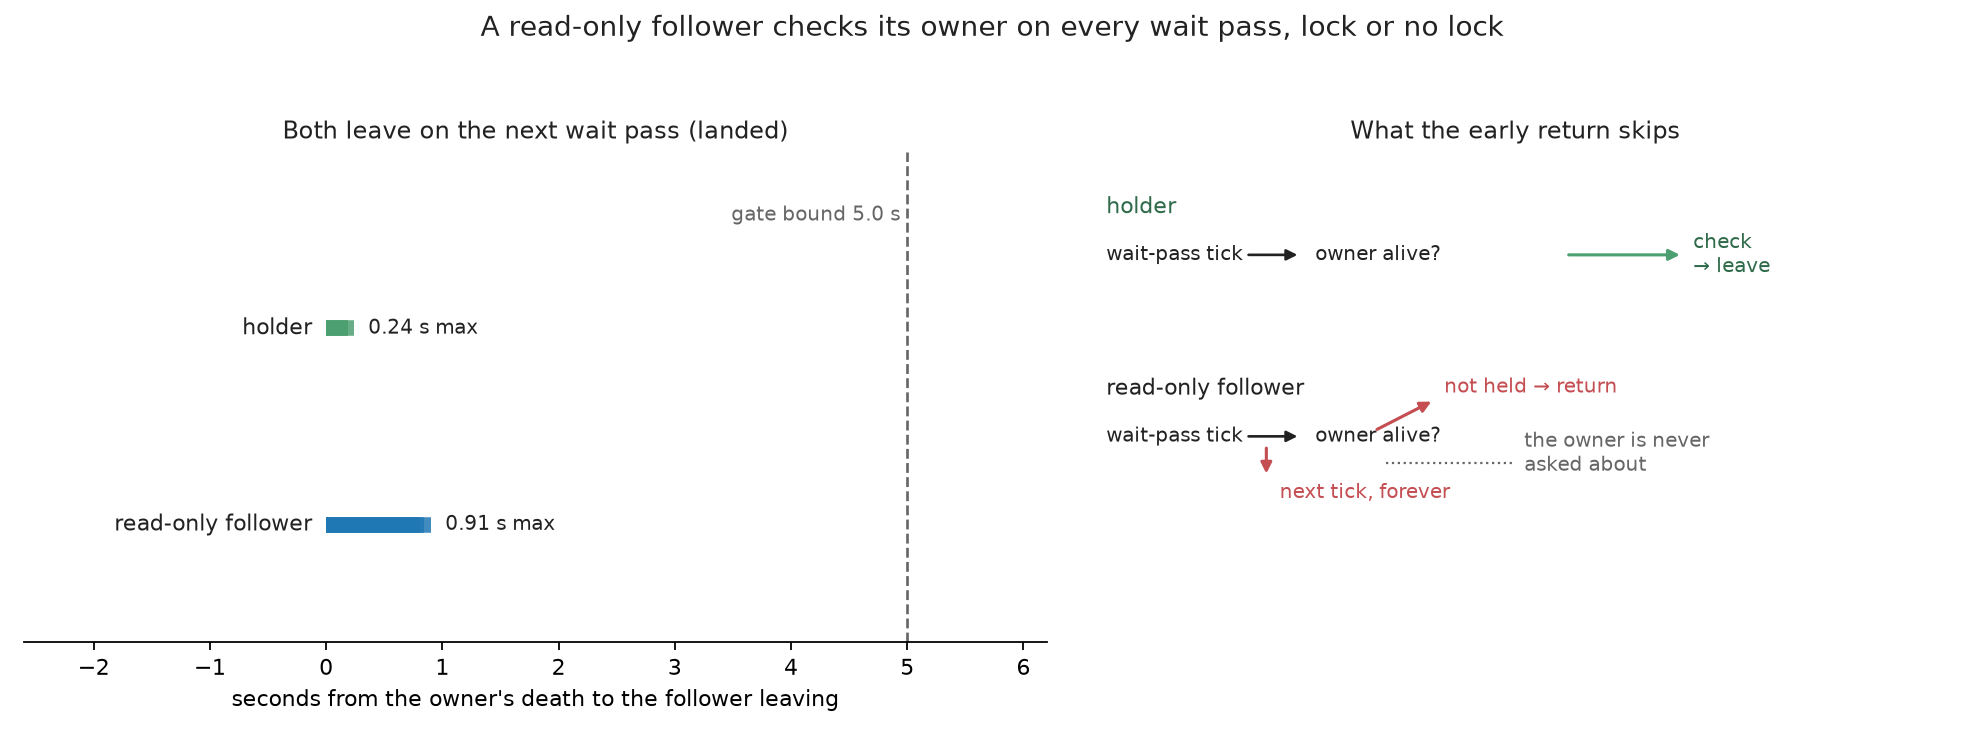
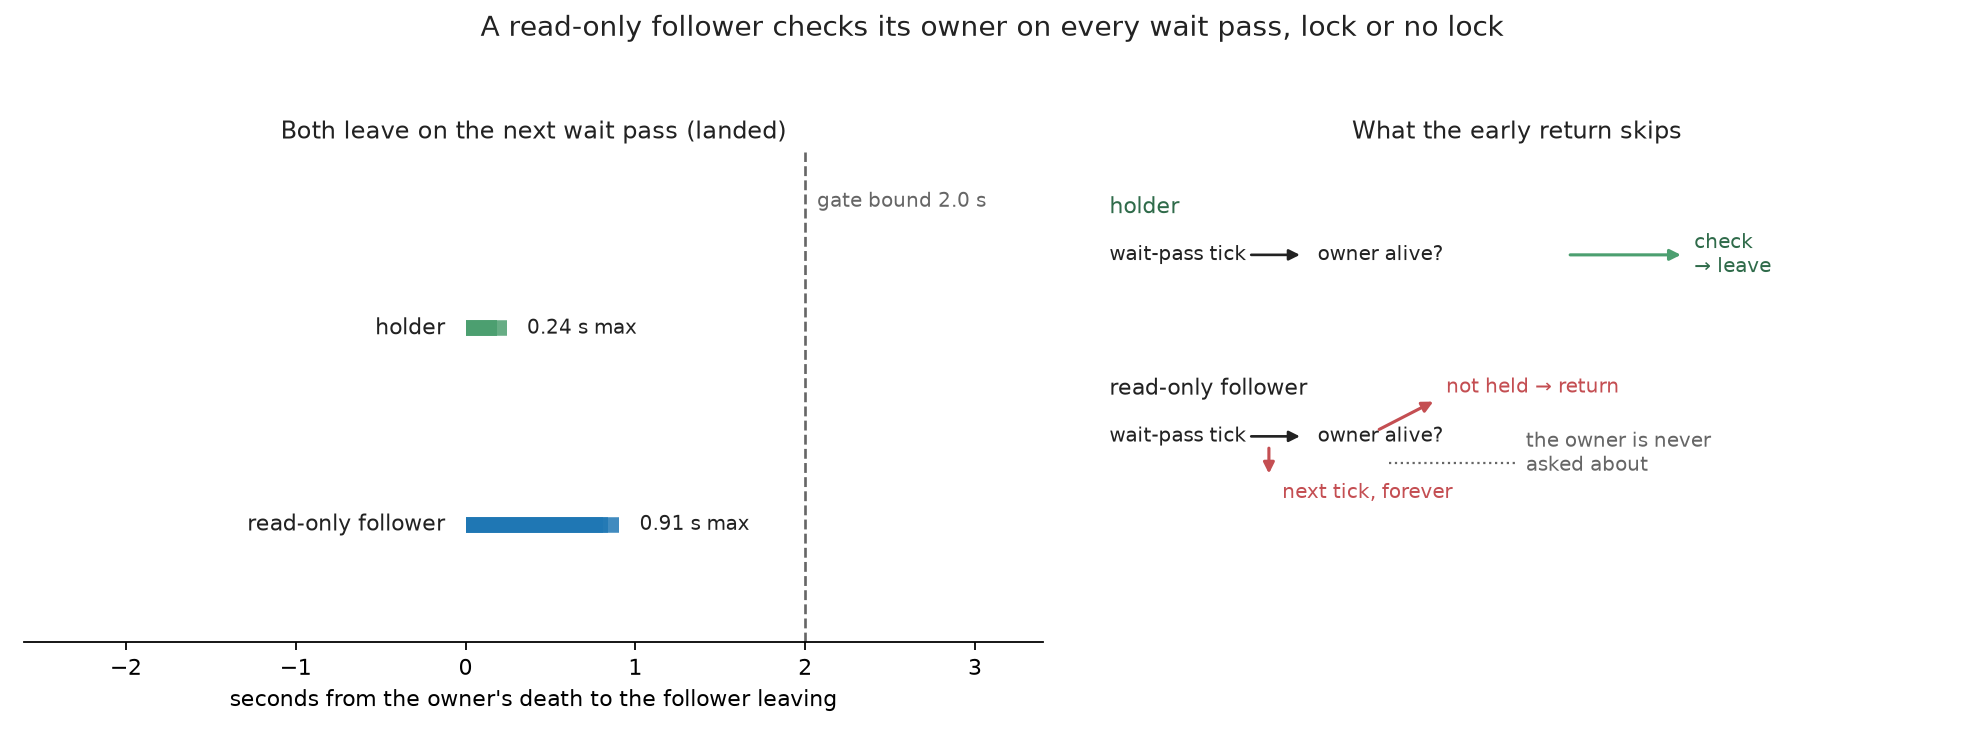
test(crew): derive the owner-exit bound from measurement and cover the reload carry
The exit bound was five seconds while the wait pass polls every tenth of a
second, so it admitted fifty passes and a regression that asked about the owner
once per fifty passes would still have passed. It is now two seconds, derived
from the measured latency on this login node - 0.811, 0.839 and 0.905 s for a
read-only follower, 0.185, 0.242 and 0.185 s for the holder - at 2.2x the
slowest sample, and the derivation is stated where the constant is declared.

The reload case could not see the owner carry: execve leaves the parent
unchanged, so a replacement reading os.getppid() reads the owner either way.
The new case reads the owner where the parent is not the owner. The arming stub
is killed while the follower is held still, so the follower is adopted by a live
child subreaper before it has looked at anything; its source stamp is then
advanced and it is resumed, and the replacement must leave because the owner it
carried is dead. The adoption is asserted from the process table, and the
replacement is observed on its own command line rather than inferred, with the
window from the replacement becoming live to its exit measured and bounded
separately since it carries the replacement's own import cost.

The figure's bound follows from the constant, and the old reload case's
docstring now states the blind spot it leaves to the new case.

diff --git a/tests/test_follower_checks_its_owner.py b/tests/test_follower_checks_its_owner.py
@@ -31,6 +31,15 @@ All cases use the real follower command against a temporary crew config home and
 a stub process the test can kill on its own, so killing it ends the owner without
 ending the test. Liveness is read from the process table rather than inferred.
 
+Carrying the owner across a reload needs its own case, because the obvious one
+does not test it. Reloading while the owner is alive leaves the parent unchanged
+— ``execve`` does not re-parent — so a replacement that read ``os.getppid()``
+would read the owner either way and the case would pass with the carry removed.
+The owner's *identity* must therefore be read while the parent is something
+other than the owner: the arming stub dies, the follower is adopted by a live
+child subreaper, and only then is it reloaded. Resolved from the carried owner
+the replacement leaves; resolved from the parent it would run on forever.
+
 The gate declares one negative control, executed and logged: restoring the early
 return in ``_check_consumer`` for a non-holder, and making ``acquire()`` record
 ``os.getppid()`` again, must fail this file.
@@ -64,14 +73,41 @@ OWNER_ENV = "RECKON_FOLLOWER_OWNER"
 
 # Reaching an arm costs a few seconds of interpreter and import latency.
 ARM_WITHIN_SECONDS = 30.0
-# The exit a dead owner triggers runs on the follower's wait pass, whose cadence
-# is a fraction of a second; five seconds is many passes plus the schedule jitter
-# of a loaded login node. The live-owner control shows the same window is long
-# enough to be meaningful: a follower which never checked would still be running
-# at its end.
-EXIT_WITHIN_SECONDS = 5.0
+# The exit a dead owner triggers is measured on this login node at 0.811, 0.839
+# and 0.905 s for a read-only follower and 0.185, 0.242 and 0.185 s for the
+# holder, from its owner's death to the process leaving. Two seconds is 2.2x the
+# slowest sample, which leaves room for the interpreter teardown and the jitter
+# of a loaded node while staying short enough to be a bound rather than a wait.
+# The follower's wait pass polls every 0.1 s (``poll_interval`` in
+# ``_follow_watch_lines``), so five seconds would allow fifty passes: a
+# regression that asked about the owner once every fifty passes would still
+# pass it. Two seconds allows about twenty, and the samples show the check
+# answering on the pass it runs. The live-owner control shows the same window is
+# long enough to mean something: a follower which never checked would still be
+# running at its end.
+EXIT_WITHIN_SECONDS = 2.0
 POLL_SECONDS = 0.05
 RELOAD_WITHIN_SECONDS = 8.0
+# The reloader polls its source stamp at most once per
+# ``runs.FOLLOWER_FRESHNESS_SECONDS``. A stopped follower must be held still for
+# longer than that before it is resumed, so the first pass after it resumes can
+# see the stamp change rather than being rate-limited past it.
+FRESHNESS_SECONDS = 1.0
+SETTLE_SECONDS = FRESHNESS_SECONDS + 0.4
+SIGSTOP = 19
+SIGCONT = 18
+# The replacement image is watched tightly: its command line is what shows the
+# reload, and it lives only as long as its own imports take, so a sample per
+# wait-pass would risk missing it entirely.
+SAMPLE_SECONDS = 0.005
+# From the replacement image becoming live to the process leaving. That window
+# carries the replacement's interpreter and package import cost, which the
+# owner-exit bound above is not about, so it is measured and bounded on its own:
+# 1.193, 1.220 and 1.240 s over three runs, and three seconds is 2.4x the
+# slowest. The failing direction this bound has to catch is unbounded — without
+# the carried owner the replacement reads a live parent and never leaves — so
+# the bound separates a follower that left from one that never will.
+RELOAD_EXIT_WITHIN_SECONDS = 3.0
 
 # The replacement image is launched with a launcher that inserts its import root
 # on ``sys.path`` before entering the command. That string is absent from the
@@ -107,6 +143,24 @@ proc = subprocess.Popen(
 )
 with open(pid_path, "w", encoding="utf-8") as handle:
     handle.write(str(proc.pid))
+time.sleep(600)
+"""
+
+# A live stand-in for the process that replaces a dead owner. It marks itself a
+# child subreaper, then starts the same stub the other cases use; when that stub
+# is killed its child is handed to this process rather than to init, and this
+# process stays alive so the adopted child hangs off something live.
+_SUBREAPER = """
+import ctypes, os, subprocess, sys, time
+
+stub_pid_path, stub_source, *stub_args = sys.argv[1:]
+libc = ctypes.CDLL("libc.so.6", use_errno=True)
+if libc.prctl(36, 1, 0, 0, 0) != 0:
+    raise SystemExit("prctl(PR_SET_CHILD_SUBREAPER): " + os.strerror(ctypes.get_errno()))
+proc = subprocess.Popen([sys.executable, "-c", stub_source, *stub_args])
+with open(stub_pid_path, "w", encoding="utf-8") as handle:
+    handle.write(str(proc.pid))
+proc.wait()
 time.sleep(600)
 """
 
@@ -177,6 +231,116 @@ def _start_stub(home: Path, workdir: Path, tag: str) -> tuple[subprocess.Popen, 
     return process, pid_path
 
 
+def _start_subreaper_stub(
+    home: Path, workdir: Path, tag: str
+) -> tuple[subprocess.Popen, Path, Path]:
+    """Start an owner stub whose own parent outlives it.
+
+    Returns the subreaper process, the path its stub's pid lands in, and the
+    path the stub's follower's pid lands in. Killing the stub hands the follower
+    to the subreaper rather than to init, which is the state a follower is left
+    in when its arming session dies under a live process that reaps orphans.
+    """
+    stub_pid_path = workdir / f"{tag}.stub.pid"
+    pid_path = workdir / f"{tag}.pid"
+    environment = _stub_env(home)
+    environment["FOLLOWER_TEST_PROJECT"] = PROJECT
+    process = subprocess.Popen(
+        [
+            sys.executable,
+            "-c",
+            _SUBREAPER,
+            str(stub_pid_path),
+            _STUB,
+            str(REPO_ROOT),
+            str(workdir / f"{tag}.stdout"),
+            str(workdir / f"{tag}.stderr"),
+            str(pid_path),
+        ],
+        stdout=subprocess.DEVNULL,
+        stderr=subprocess.PIPE,
+        text=True,
+        env=environment,
+    )
+    return process, stub_pid_path, pid_path
+
+
+def _process_ppid(pid: int) -> str:
+    """The parent pid from the per-process stat record, or an empty string."""
+    fields = runs._process_stat_fields(pid)
+    return fields[1] if len(fields) > 1 else ""
+
+
+def _wait_until_stopped(pid: int, *, tag: str) -> None:
+    """Wait until the follower is held still by a stop signal.
+
+    Freezing the follower is what puts the re-parenting before the reload: a
+    process that is stopped cannot run its wait pass, so the owner's death and
+    the adoption happen while nothing has yet looked at the owner.
+    """
+    deadline = time.monotonic() + EXIT_WITHIN_SECONDS
+    while time.monotonic() < deadline:
+        if runs._process_state(pid) == "T":
+            return
+        if _exited(pid):
+            pytest.fail(f"{tag}: the follower ended before it was held still")
+        time.sleep(POLL_SECONDS)
+    pytest.fail(
+        f"{tag}: the follower was never held still, so the re-parenting "
+        "could not be ordered ahead of the reload"
+    )
+
+
+def _wait_until_gone(pid: int, *, tag: str) -> None:
+    """Wait for a process that is not this test's child to leave the table."""
+    deadline = time.monotonic() + EXIT_WITHIN_SECONDS
+    while time.monotonic() < deadline:
+        if runs.process_alive(pid) is not True:
+            return
+        time.sleep(POLL_SECONDS)
+    pytest.fail(f"{tag}: the process was still alive after it was killed")
+
+
+def _wait_until_reloaded_then_exited(pid: int, *, tag: str) -> tuple[bool, float]:
+    """Wait for the replacement image, then for the process to leave.
+
+    The reload and the exit are two states of one pid, and the replacement lives
+    only as long as its own imports take, so its command line is sampled tightly
+    rather than once per wait-pass. The clock for the exit starts when the
+    launcher appears, so the reload's own cost is not charged against the
+    owner-exit bound. Returns whether the replacement was seen and how long it
+    took to leave after that.
+    """
+    reload_deadline = time.monotonic() + RELOAD_WITHIN_SECONDS
+    while time.monotonic() < reload_deadline:
+        if RELOAD_LAUNCHER_MARKER in _process_argv(pid):
+            break
+        if _exited(pid):
+            pytest.fail(
+                f"{tag}: the follower left without replacing its image, so the "
+                "owner's survival across a reload was not exercised; "
+                f"argv={_process_argv(pid)!r}"
+            )
+        time.sleep(SAMPLE_SECONDS)
+    else:
+        pytest.fail(
+            f"{tag}: the follower did not replace its image; "
+            f"argv={_process_argv(pid)!r}"
+        )
+
+    started = time.monotonic()
+    while time.monotonic() - started < RELOAD_EXIT_WITHIN_SECONDS:
+        if _exited(pid):
+            return True, time.monotonic() - started
+        time.sleep(SAMPLE_SECONDS)
+    pytest.fail(
+        f"{tag}: the replacement image was still running "
+        f"{RELOAD_EXIT_WITHIN_SECONDS!r}s after it was observed, so the owner it "
+        "resolved is alive: the arming's owner was not carried across the reload; "
+        f"argv={_process_argv(pid)!r}"
+    )
+
+
 def _arm(home: Path, owner: tuple[int, str] | None) -> subprocess.Popen:
     """Start a follower armed with an explicit owner identity."""
     environment = _stub_env(home)
@@ -243,6 +407,23 @@ def _follower_pid(pid_path: Path, stub: subprocess.Popen, tag: str) -> int:
                 return int(text)
         time.sleep(POLL_SECONDS)
     pytest.fail(f"{tag}: the stub owner never recorded a follower pid")
+
+
+def _read_pid(pid_path: Path, holder: subprocess.Popen, tag: str) -> int:
+    """Read a pid another process writes, while its holder is still alive."""
+    deadline = time.monotonic() + ARM_WITHIN_SECONDS
+    while time.monotonic() < deadline:
+        if holder.poll() is not None:
+            _stdout, stderr = holder.communicate(timeout=EXIT_WITHIN_SECONDS)
+            pytest.fail(
+                f"{tag}: the holder exited before it recorded a pid; stderr={stderr!r}"
+            )
+        if pid_path.is_file():
+            text = pid_path.read_text().strip()
+            if text.isdigit():
+                return int(text)
+        time.sleep(POLL_SECONDS)
+    pytest.fail(f"{tag}: no pid was ever recorded")
 
 
 def _wait_until_holder(pid: int, *, deadline: float, tag: str) -> None:
@@ -435,6 +616,13 @@ def test_a_reloaded_follower_still_leaves_when_the_original_owner_dies(home) -> 
     change, and its occurrence is confirmed by the replacement's own command
     line, so a run in which no reload happened cannot pass by measuring the
     first image alone.
+
+    This case reloads while the owner is alive, so it cannot see the carry:
+    ``execve`` does not change the parent, so a replacement reading
+    ``os.getppid()`` reads the owner here and leaves under the owner's later
+    death either way. ``test_a_reload_under_a_live_subreaper_keeps_the_dead_owner``
+    is the case that reads the owner where the parent is not the owner, and it is
+    the one that fails if the carry is removed.
     """
     real_dir = _real_follower_dir(PROJECT)
     before = _tree(real_dir)
@@ -467,6 +655,80 @@ def test_a_reloaded_follower_still_leaves_when_the_original_owner_dies(home) -> 
         "directory untouched"
     )
     assert elapsed <= EXIT_WITHIN_SECONDS
+
+
+def test_a_reload_under_a_live_subreaper_keeps_the_dead_owner(home) -> None:
+    """A follower re-parented to a live process still leaves on its dead owner.
+
+    This is the case that sees the carried owner. The arming stub is killed, so
+    the follower is handed to a live child subreaper — the process a follower is
+    left hanging from whenever its session dies under something that reaps
+    orphans. The follower is held still across that, so nothing has looked at
+    the owner yet, and then its source stamp is advanced and it is resumed.
+
+    On its first pass after resuming it replaces its image, and the replacement
+    resolves the process it reports to. Resolved from ``os.getppid()`` that is
+    the live subreaper, and the replacement would then run on with an owner that
+    never died — which is why the original reload case cannot see this: there
+    the reload happens while the owner is alive, so the parent it would read is
+    the owner either way. Resolved from the carried ``RECKON_FOLLOWER_OWNER`` it
+    is the dead stub, and the replacement leaves.
+
+    The adoption is asserted, not assumed: the follower's parent must be the
+    subreaper before it is resumed, so a run in which the kill left it under
+    init cannot pass by measuring the wrong tree.
+    """
+    real_dir = _real_follower_dir(PROJECT)
+    before = _tree(real_dir)
+
+    subreaper: subprocess.Popen | None = None
+    follower_pid: int | None = None
+    stub_pid: int | None = None
+    restore: tuple[int, int] | None = None
+    try:
+        subreaper, stub_pid_path, pid_path = _start_subreaper_stub(home, home, "orphan")
+        follower_pid = _follower_pid(pid_path, subreaper, "orphan")
+        _wait_until_holder(
+            follower_pid, deadline=time.monotonic() + ARM_WITHIN_SECONDS, tag="orphan"
+        )
+
+        os.kill(follower_pid, SIGSTOP)
+        _wait_until_stopped(follower_pid, tag="orphan")
+
+        stub_pid = _read_pid(stub_pid_path, subreaper, "orphan")
+        os.kill(stub_pid, 9)
+        _wait_until_gone(stub_pid, tag="arming stub")
+
+        adopted_by = _process_ppid(follower_pid)
+        assert adopted_by == str(subreaper.pid), (
+            "the follower must be adopted by the live subreaper before it is "
+            f"resumed; its parent is {adopted_by!r}, not {subreaper.pid}"
+        )
+
+        restore = _force_source_change()
+        time.sleep(SETTLE_SECONDS)
+
+        os.kill(follower_pid, SIGCONT)
+        saw_reload, elapsed = _wait_until_reloaded_then_exited(
+            follower_pid, tag="re-parented follower"
+        )
+    finally:
+        if follower_pid is not None and not _exited(follower_pid):
+            with contextlib.suppress(ProcessLookupError):
+                os.kill(follower_pid, 9)
+        if stub_pid is not None:
+            with contextlib.suppress(ProcessLookupError):
+                os.kill(stub_pid, 9)
+        _kill(subreaper)
+        if restore is not None:
+            _restore_source_times(restore)
+
+    assert _tree(real_dir) == before == set(), (
+        "a follower pointed at a temporary home must leave the real follower "
+        "directory untouched"
+    )
+    assert saw_reload, "the case must observe the reload it depends on"
+    assert elapsed <= RELOAD_EXIT_WITHIN_SECONDS
 
 
 def test_a_takeover_records_the_armed_owner_not_the_claimants_parent(home) -> None:

diff --git a/docs/figures/a-crew-process-ends-with-its-owner/owner_check_independent_of_the_lock.py b/docs/figures/a-crew-process-ends-with-its-owner/owner_check_independent_of_the_lock.py
@@ -2,7 +2,7 @@
 
 Left panel: measured seconds from the owner's death to the follower leaving the
 process table, three samples each for a read-only follower and for the holder of
-the session's registration, against the gate's five-second bound.
+the session's registration, against the gate's two-second bound.
 
 Right panel: the wait-pass decision the two followers take. The holder always
 reached the owner check; the read-only follower returned before it, because the
@@ -23,7 +23,10 @@ import matplotlib.pyplot as plt
 # stays alive, and the process table is sampled until the follower is gone.
 READ_ONLY_SAMPLES = [0.811, 0.839, 0.905]
 HOLDER_SAMPLES = [0.185, 0.242, 0.185]
-GATE_BOUND_SECONDS = 5.0
+# The bound the gate asserts, from the slowest sample: 2.2x it. The wait pass
+# polls every 0.1 s, so a bound that left fifty passes would let a regression
+# asking about the owner once every fifty passes through.
+GATE_BOUND_SECONDS = 2.0
 
 FIXED = "#1f77b4"
 MUTATED = "#c44e52"
@@ -58,14 +61,14 @@ def left_panel(ax) -> None:
         ax.text(-0.12, y, label, va="center", ha="right", fontsize=10, color=INK)
     ax.axvline(GATE_BOUND_SECONDS, color=MUTED_INK, linestyle="--", linewidth=1.2)
     ax.text(
-        GATE_BOUND_SECONDS - 0.06,
-        1.55,
-        "gate bound 5.0 s",
-        ha="right",
+        GATE_BOUND_SECONDS + 0.07,
+        1.62,
+        f"gate bound {GATE_BOUND_SECONDS:.1f} s",
+        ha="left",
         fontsize=9,
         color=MUTED_INK,
     )
-    ax.set_xlim(-2.6, 6.2)
+    ax.set_xlim(-2.6, 3.4)
     ax.set_ylim(-0.6, 1.9)
     ax.set_yticks([])
     ax.set_xlabel("seconds from the owner's death to the follower leaving")
